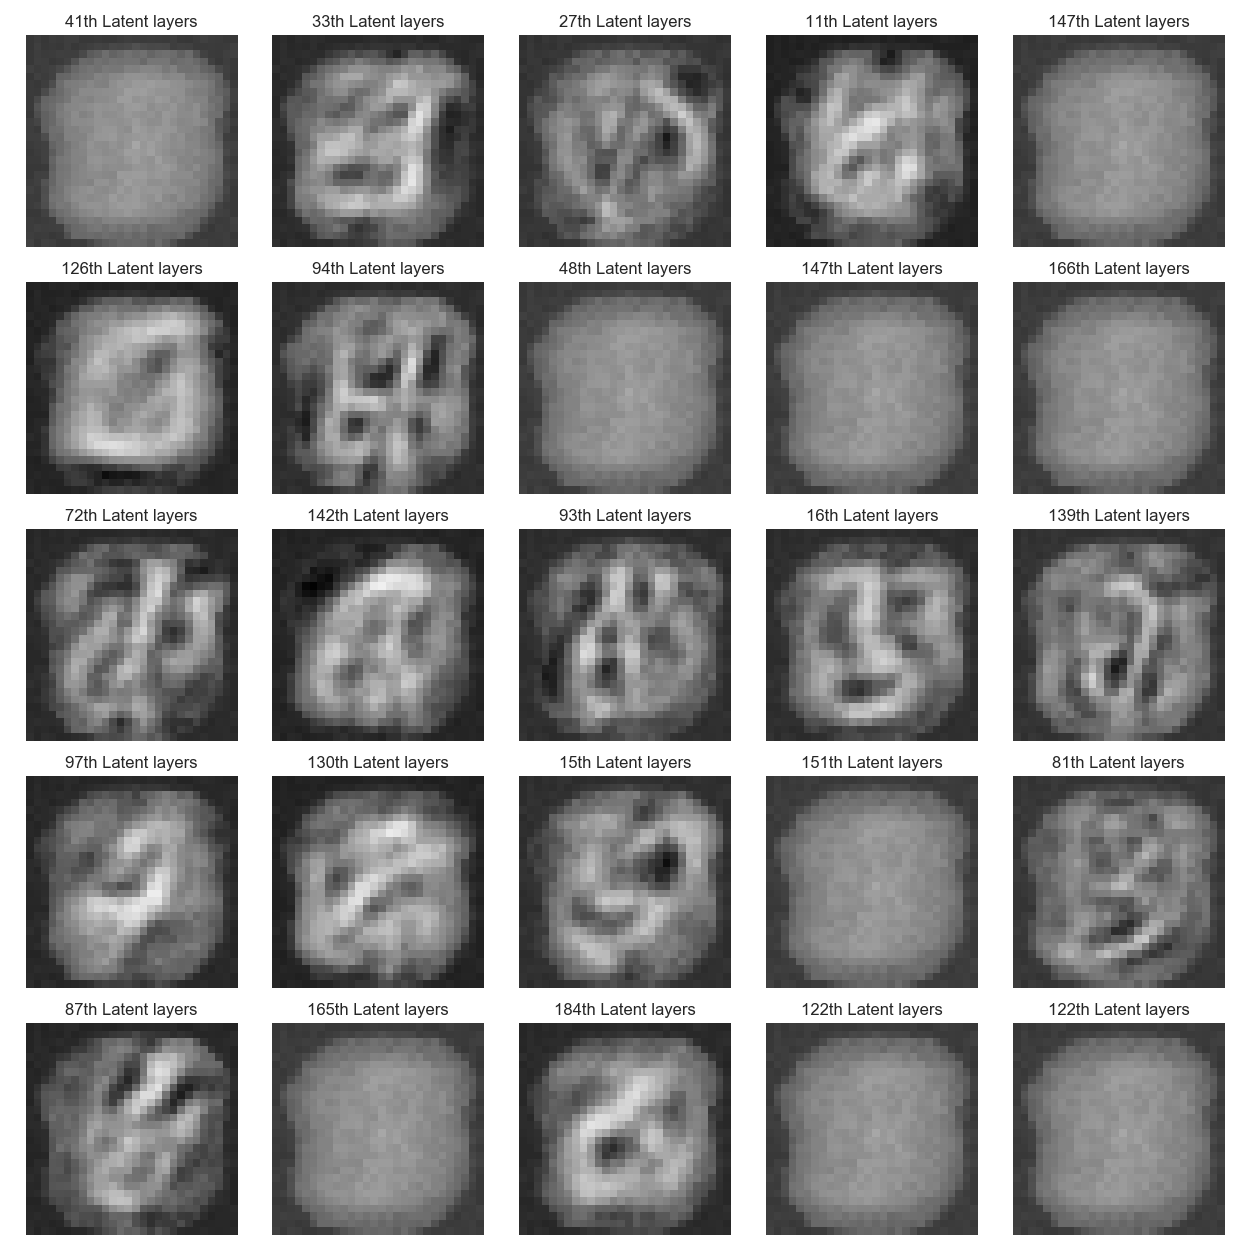
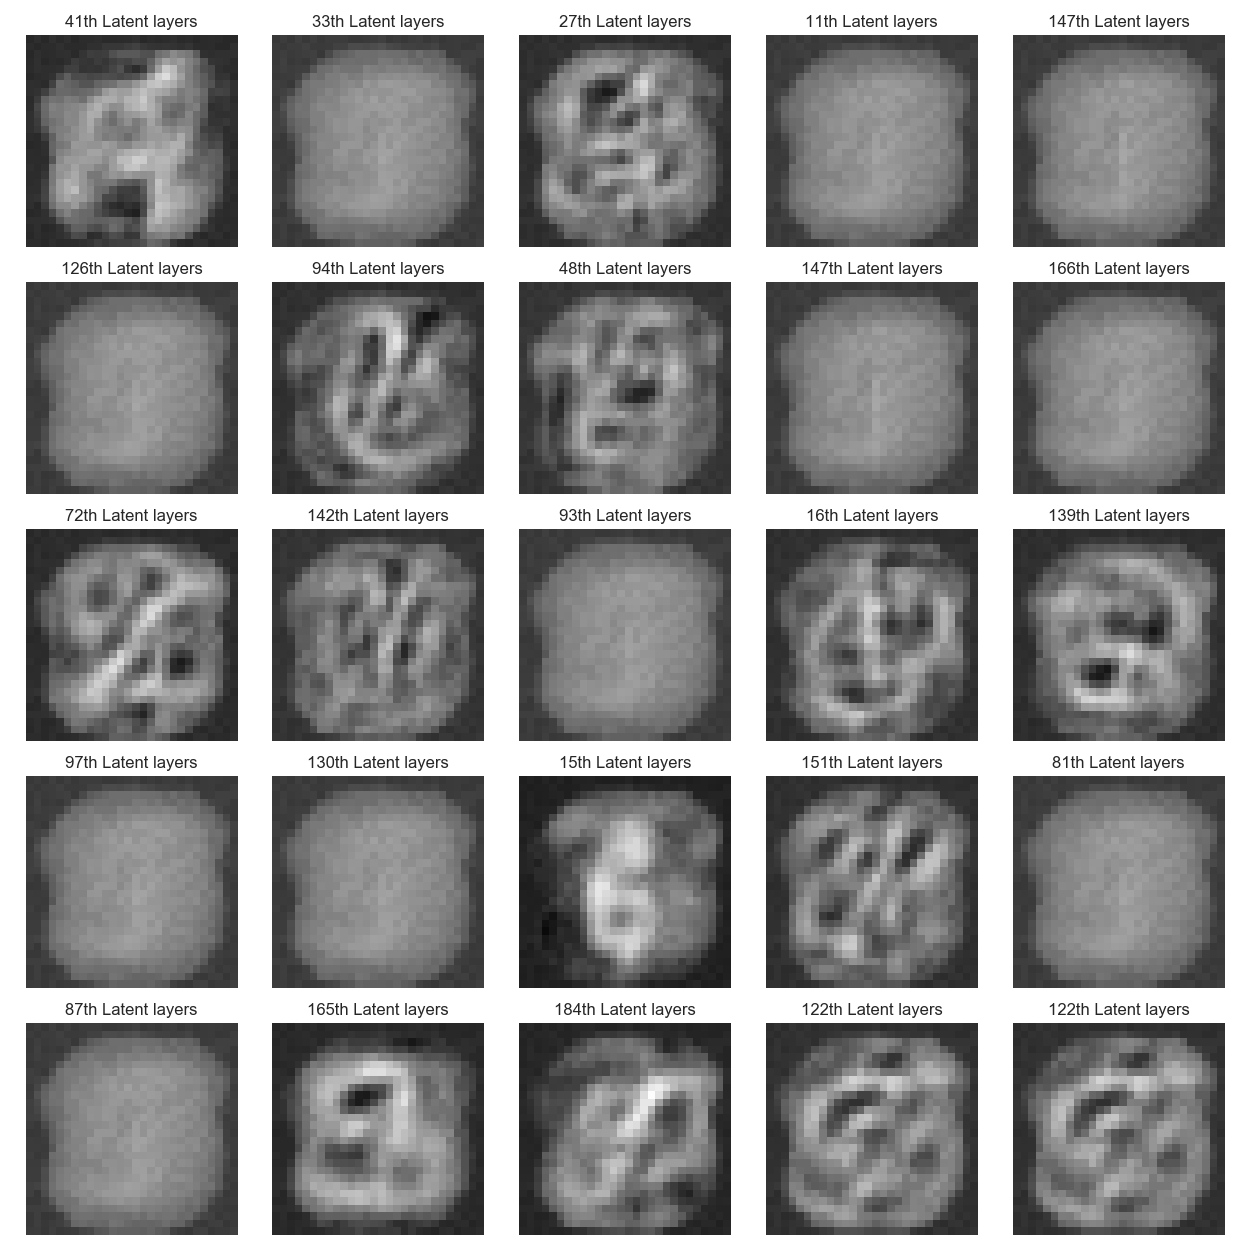
add navigation simulator

diff --git a/place-cell.py b/place-cell.py
@@ -1,15 +1,18 @@
 import os
-
 import torch
-import torch.nn as nn 
-from torch.optim import Adam
-
 import numpy as np 
 
 import matplotlib.pyplot as plt 
 from matplotlib.patches import Rectangle
-import seaborn as sns 
-from IPython.display import clear_output
+import seaborn as sns
+
+from utils.autoencoder import AE, trainAE
+
+'''
+Need to do:
+
+    Decode the latent layer.
+'''
 
 #--------------------------------
 #        System variables
@@ -35,8 +38,21 @@ sns.set_style("whitegrid", {'axes.grid' : False})
 dpi = 250
 fontsize = 16
 
+#-------------------------------
+#        Axullary functions 
+#-------------------------------
+
 # get scale 
 img_scale  = lambda x: (x - np.min(x)) / (np.max(x) - np.min(x))
+
+def loc2phi( loc):
+    '''Angle between (1, 0)
+    phi = arccos( <u, v>/||u||||v||)
+    '''
+    unit_loc = loc / np.linalg.norm(loc)
+    eign_vec = np.array( [ 1, 0])
+    dot_product = np.dot( unit_loc, eign_vec)
+    return np.arccos(dot_product)
 
 #---------------------------------
 #      Trajectory simulator
@@ -59,23 +75,43 @@ class NaviTraj:
             Winp[ i, j] ~ N( 0, 1). The
         H: a step-wise function return a binary input 
 
+        Note that due to the lack of detailed information, especially
+        how to decide whether it hits the wall, I use an approxiamte 
+        method to construct the navigation trajectory.
+
         '''
         self.rng = np.random.RandomState( seed)
         self.W_in = self.rng.randn( 300, 6)
         self.H    = lambda x: 1. * ( x > 0)
-        self.reset()
 
     def reset( self):
         '''Init the wall location 
         '''
-        self.phi   = self.rng.uniform( 0, 2*np.pi)
+        # this method if quite different from what
+        # the paper says φ ~ Uni(0, 2pi)
+        pos = self.rng.uniform( 0, 8)
+        if pos < 2:
+            loc = [ -1+pos, -1] # South ( x, -1)
+            self.wallortho = np.pi/2
+        elif pos < 4:
+            loc = [  1, -3+pos] # East  (  1, x)
+            self.wallortho = np.pi
+        elif pos < 6:
+            loc = [ -5+pos,  1] # North ( x,  1)
+            self.wallortho = 3 * np.pi/2
+        else:
+            loc = [ -1, -7+pos] # West  ( -1, x)
+            self.wallortho = 0
+        self.loc  = loc
+        self.phi = loc2phi( self.loc)
         self.theta = 0 
         self.d     = 0 
+        return loc
 
     def towards( self):
         '''Heading from the wall
         '''
-        self.theta = self.rng.uniform( -np.pi/2, np.pi)
+        self.theta = self.rng.uniform( -np.pi/2, np.pi/2)
 
     def step( self, t):
         '''step fowards
@@ -92,7 +128,10 @@ class NaviTraj:
               cos(phi),   sin(phi) ]
         '''
         d = .1 * t
-        return np.array( [ np.cos( 2*np.pi*d / np.sqrt(8)), np.sin( 2*np.pi*d / np.sqrt(8)),
+        ang = self.wallortho + self.theta
+        self.loc += np.array( [ .1*np.cos( ang), .1*np.sin(ang)])
+        self.loc = np.clip( self.loc, -1, 1)
+        return self.loc, np.array( [ np.cos( 2*np.pi*d / np.sqrt(8)), np.sin( 2*np.pi*d / np.sqrt(8)),
                            np.cos( self.theta), np.sin( self.theta),
                            np.cos( self.phi), np.sin( self.phi)])
 
@@ -115,203 +154,105 @@ class NaviTraj:
         '''
         # Storages
         traj = [] 
+        X, Y = [], [] 
 
         # repeat 500 trajectories 
+        fig, ax = plt.subplots( 1, 1, figsize=(5,5))
         for _ in range(N):
             # sample the heading direction
             done, t = False, 0
+            loc = self.reset()
             self.towards()
+            X.append( loc[0])
+            Y.append( loc[1])
+            if Verbose:
+                self.render( ax, X, Y)
             # move ahead util reach the wall
             while not done: 
                 t += 1
-                traj.append( self.step( t))
+                loc, state = self.step( t)
+                if self.hit_wall():
+                    X.append( np.nan)
+                    Y.append( np.nan)
+                    break 
+                X.append( loc[0])
+                Y.append( loc[1])
+                traj.append( state)
                 # visualize the env
                 if Verbose:
-                    clear_output(True)
-                    room = Rectangle( (-1, -1), 
-                                        2,  2,
-                                        linewidth=1,
-                                        edgecolor='r',
-                                        facecolor='none')
-                # check if reach the wall 
-                if self.hitwall():
-                    done = True 
-        
-        return np.vstack( traj)
+                    self.render( ax, X, Y)
+                #check if reach the wall 
+        # save trajectories
+        self.render( ax, X, Y)
+        plt.savefig( f'figures/trajectories.png')
+        return traj
+    
+    def hit_wall( self):
+        return np.max(abs(self.loc))>=1
+
+    def render(self, ax, X, Y):
+        ax.plot( X, Y, color=Red)
+        room = Rectangle( (-1.01, -1.01), 
+                            2.02,  2.02,
+                            linewidth=2,
+                            edgecolor=Blue,
+                            facecolor='none')
+        ax.add_patch( room)
+        ax.set_axis_off()
 
     def state2obs( self, state):
         '''State to observation
             Shape: [?. 6] x [ 6, 300] = [?, 300] 
         '''
         return self.H( state @ self.W_in.T)
-        
+
 #--------------------------------
-#        Hyperparameters
+#        Visualization 
 #--------------------------------
 
-DefaultParams = { 
-                'MaxEpochs': 15,
-                'L2Reg': 1e-5,
-                'SparsityReg': 5,
-                'SparsityPro': .1,
-                'Verbose': True,
-                'BatchSize': 32,
-                'If_gpu': True, 
-                } 
-eps_ = 1e-8
+def decode_Z( model, z_dim, ind=range(25)):
 
-#---------------------------------
-#    AutoEncoder architecture
-#---------------------------------
-
-class AE( nn.Module):
-
-    def __init__(self, dims, gpu=False):
-        super().__init__()
-        # choose device 
-        if gpu and torch.cuda.is_available():
-            self.device = 'cuda:0'
-        else:
-            self.device = 'cpu'
-        # construct encoder 
-        encoder = [] 
-        for i in range(len(dims)-1):
-            encoder.append( nn.Linear( dims[i], dims[i+1]))
-            encoder.append( nn.Sigmoid())
-        self.encoder = nn.Sequential( *encoder).to(self.device)
-        # construct decoder, reverse the encoder operation
-        re_dims = list(reversed(dims))
-        decoder = [] 
-        for i in range(len(dims)-1):
-            decoder.append( nn.Linear( re_dims[i], re_dims[i+1]))
-            decoder.append( nn.Sigmoid())
-        self.decoder = nn.Sequential( *decoder).to(self.device)
-        
-    def forward( self, x):
-        z = self.encoder(x)
-        x_hat = self.decoder(z)
-        return z, x_hat
-
-    def encode( self, x):
-        '''Encode for test only
-        '''
-        with torch.no_grad():
-            return self.encoder(x)
-
-    def decode( self, z):
-        '''Decode for test only
-        '''
-        with torch.no_grad():
-            return self.decoder(z)
-
-    def MSEsparse( self, x, x_hat, z, spa_reg=5, p=.1):
-        '''Mean sqaure error sparse
-
-        Error = 1/N ∑_i∑_j (x_ij - x_hat_ij)^2  
-                    + β1 l2norm(W)
-                    + β2 Sparity
-        
-        Note that l2 regularize can be implemented
-        in the optimizer using weight decay:
-        https://pytorch.org/docs/stable/optim.html
-
-        '''
-        mse = (x - x_hat).pow(2).sum(1).mean()
-        sparsity = self.SparsityLoss( z, p)
-        return mse + spa_reg*sparsity
-
-    def SparsityLoss( self, z, p_tar):
-        '''
-        The supplementary material of the Benna and Fusi 2021 says:
-            "The level of activate is esimated by binarized the 
-                latent representation by the threshold = 0.5"
-
-        We use the binary value to estimate the activate 
-        proportion: p_hat  = 1/N ∑_i Z_i(x)
-
-        Reference
-        https://web.stanford.edu/class/cs294a/sparseAutoencoder.pdf
-        '''
-        # get the target tesnor 
-        rho_hat = z.mean(dim=1)
-        rho     = (torch.ones_like( rho_hat) * p_tar).to(self.device)
-
-        # calculate kld 
-        kld1 = rho * ((rho).log() - (rho_hat).log())
-        kld2 = (1-rho) * ((1-rho).log() - (1-rho_hat).log())
-        return (kld1 + kld2).sum()
-
-#---------------------------
-#    Train Auto encoder 
-#---------------------------
-
-def trainAE( train_data, dims, **kwargs):
-    '''Train a sparse autoencoder
-
-    Input:
-        data: the data for training
-        dims: the dimension for your network architecture
-        L2Reg: the weight for l2 norm
-        SparsityReg: the weight for sparsity
-        SparsityPro': the target level sparsity 
-        MaxEpochs: maximum training epochs 
-        BatchSize: the number of sample in a batch for the SGD
-        Versbose: tracking the loss or ont 
-    '''
-    ## Prepare for the training 
-    # set the hyper-parameter 
-    HyperParams = DefaultParams
-    for key in kwargs.keys():
-        HyperParams[key] = kwargs[key]
-    # preprocess the data
-    x, y = train_data
-    n_batch = int( len(x))
-    x_tensor = x.type( torch.FloatTensor)
-    y_tensor = y.type( torch.FloatTensor)
-    _dataset = torch.utils.data.TensorDataset(x_tensor, y_tensor)
-    _dataloader = torch.utils.data.DataLoader( _dataset, 
-                batch_size=HyperParams['BatchSize'], drop_last=True)
-    # init model
-    model = AE( dims, gpu=HyperParams['If_gpu'])
-    # decide optimizer 
-    optimizer = Adam( model.parameters(), lr=1e-4, 
-                        weight_decay=HyperParams['L2Reg'])       
-    ## get batch_size
-    losses = []
-    
-    # start training
-    model.train()
-    for epoch in range( HyperParams['MaxEpochs']):
-
-        ## train each batch 
-        loss_ = 0        
-        for i, (x_batch, _) in enumerate(_dataloader):
-
-            # reshape the image
-            x = torch.FloatTensor( x_batch).view( 
-                x_batch.shape[0], -1).to( model.device)
-            # reconstruct x
-            z, x_hat =  model.forward( x)
-            # calculate the loss 
-            loss = model.MSEsparse( x, x_hat, z, 
-                spa_reg=HyperParams['SparsityReg'],
-                p=HyperParams['SparsityPro'])
-            # update
-            optimizer.zero_grad()
-            loss.backward()
-            optimizer.step()
-            # store the te losses for plotting 
-            loss_ += loss.detach().cpu().numpy() / n_batch
-
-        # track training
-        losses.append(loss_)
-        if (epoch%1 ==0) and HyperParams['Verbose']:
-            print( f'Epoch:{epoch}, Loss:{loss_}')
-
-    return model, losses 
+    nr = 5
+    nc = 5 
+    z = np.zeros( [ len(ind), z_dim])
+    for i, idx in enumerate(ind):
+        z[ i, idx] = 1.
+    img_hat =  model.decode( torch.FloatTensor(z)
+            ).detach().cpu().numpy().reshape( [ len(ind), 20, 15])
+    fig, axs = plt.subplots( nr, nc, figsize=( nc*2.5, nr*2.5))
+    for i, idx in enumerate(ind):
+        ax = axs[ i//nr, i%nr]
+        ax.imshow(img_hat[ i, :, :], cmap='gray', vmin=.2, vmax=.8)
+        ax.set_title( f'{idx}th Latent layers')
+        ax.set_axis_off()
+     
+    fig.tight_layout()
+    plt.savefig( f'{path}/figures/Traj_decode.png')
 
 if __name__ == '__main__':
 
     # Simulate trajectory
-    rat = NaviTraj(seed=2022)
-    rat.rollout()
+    sim = NaviTraj(seed=2022)
+    traj = sim.rollout(N=500, Verbose=False)
+    data  = torch.FloatTensor(sim.state2obs( traj))
+    label = torch.FloatTensor( traj)
+    
+    ## Compress 
+    dims = [ 300, 600]
+    # Load a model. If no model, train one 
+    try:
+        model = AE( dims, gpu=False)
+        model.load_state_dict(torch.load(f'{path}/checkpts/traj_model.pkl'))
+    except:
+        print( f'Train AE....ing')
+        model, losses = trainAE( (data, label), dims, 
+                                    SparsityReg=1, SparsityPro=.03,
+                                    L2Reg=0, if_gpu=True)
+        torch.save( model.state_dict(), f'{path}/checkpts/traj_model.pkl')
+
+    ## Visualize
+    model.to('cpu') 
+    model.eval()
+    rng = np.random.RandomState( 2022)
+    ind = rng.choice( dims[1], size=25)
+    decode_Z( model, dims[1], ind=ind)

diff --git a/mnist.py b/mnist.py
@@ -35,6 +35,9 @@ fontsize = 16
 # get scale 
 img_scale  = lambda x: (x - np.min(x)) / (np.max(x) - np.min(x))
 
+#--------------------------------
+#        Visualization 
+#--------------------------------
 
 def reconstruct( data, model, ind=range(10), f=0):
     
